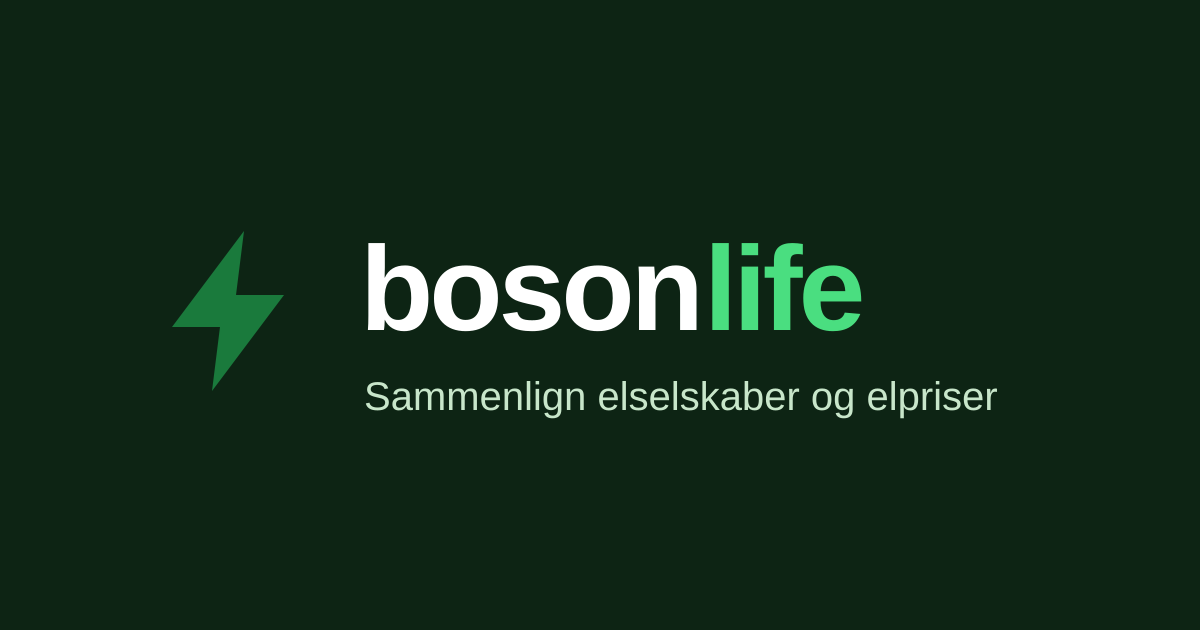
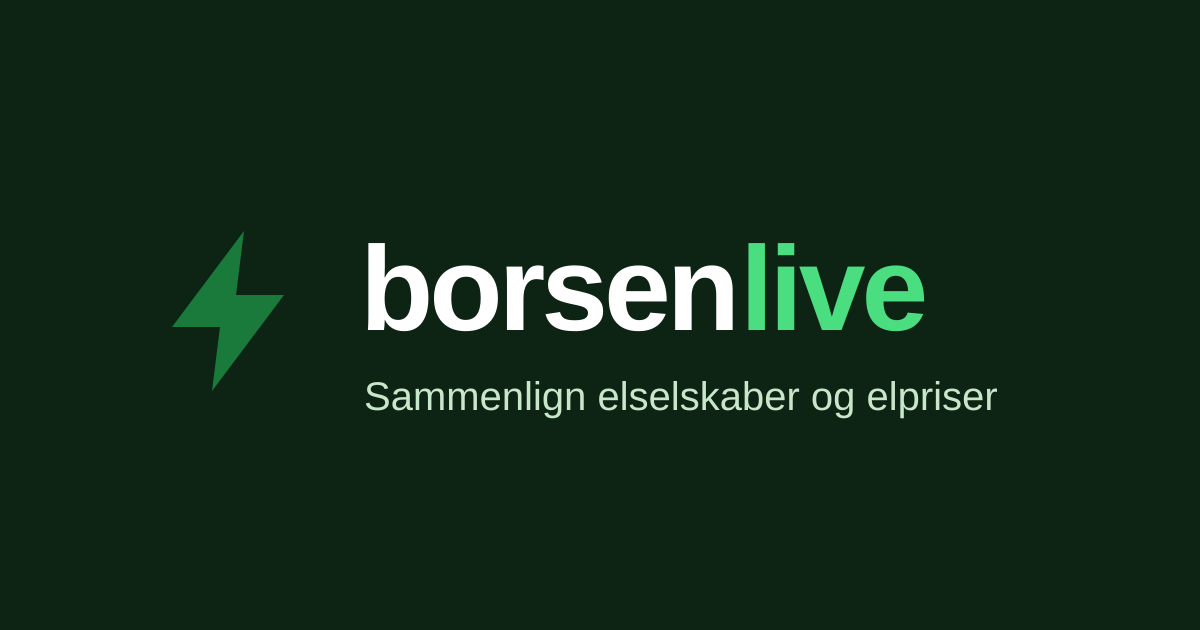
Rename site to Borsenlive (borsenlive.dk)
Claude-Session: https://claude.ai/code/session_01Bfs7oHe3EgBk3y694jMdA9

Changed region(s): [[0.4008, 0.3921, 0.7708, 0.5429]]

diff --git a/src/components/Footer.tsx b/src/components/Footer.tsx
@@ -55,12 +55,12 @@ export async function Footer({
 
   const settings = await getSiteSettings().catch(() => null)
   const logoWhiteUrl = settings?.logoWhiteUrl ?? '/logo-white.webp'
-  const tagline      = taglineProp      ?? settings?.footerTagline      ?? 'Bosonlife.dk sammenligner elselskaber og elpriser, så du nemt kan finde den bedste elaftale.'
+  const tagline      = taglineProp      ?? settings?.footerTagline      ?? 'Borsenlive.dk sammenligner elselskaber og elpriser, så du nemt kan finde den bedste elaftale.'
   const columns      = columnsProp      ?? (settings?.footerColumns?.length ? settings.footerColumns : DEFAULT_COLUMNS)
   const longDisclaimer = longDisclaimerProp ?? settings?.footerLongDisclaimer ?? null
   const mediaLogos   = mediaLogosProp   ?? settings?.footerMediaLogos   ?? []
   const trustIcons   = trustIconsProp   ?? settings?.footerTrustIcons   ?? []
-  const note         = noteProp         ?? settings?.footerNote         ?? `© ${year} Bosonlife.dk`
+  const note         = noteProp         ?? settings?.footerNote         ?? `© ${year} Borsenlive.dk`
   const disclaimer   = disclaimerProp   ?? settings?.footerDisclaimer   ?? 'Siden indeholder affiliate-links'
   const bottomNav    = bottomNavProp    ?? settings?.footerBottomNav    ?? []
   const socialLinks  = socialLinksProp  ?? settings?.socialLinks        ?? null
@@ -82,7 +82,7 @@ export async function Footer({
             <div style={{ marginBottom: '14px' }}>
               <Image
                 src={logoWhiteUrl}
-                alt="Bosonlife"
+                alt="Borsenlive"
                 height={32}
                 width={180}
                 style={{ height: '32px', width: 'auto', display: 'block' }}

diff --git a/src/app/page.tsx b/src/app/page.tsx
@@ -48,7 +48,7 @@ export default async function HomePage() {
     : [
         { _key: 'trust-1', icon: 'bolt',         title: 'Opdaterede priser',      body: 'Vi holder øje med elselskabernes tillæg, abonnementer og introtilbud, så sammenligningen altid er aktuel.' },
         { _key: 'trust-2', icon: 'scale',        title: 'Uafhængig sammenligning', body: 'Vi sammenligner elaftaler på de samme parametre, så du kan se forskellen på spotpris, fastpris og binding.' },
-        { _key: 'trust-3', icon: 'wallet-money', title: 'Gratis at bruge',         body: 'Det koster ingenting at bruge Bosonlife. Vi kan modtage provision, når du skifter via vores links.' },
+        { _key: 'trust-3', icon: 'wallet-money', title: 'Gratis at bruge',         body: 'Det koster ingenting at bruge Borsenlive. Vi kan modtage provision, når du skifter via vores links.' },
       ]
 
   const faqs = (hp?.body ?? [])

diff --git a/src/app/layout.tsx b/src/app/layout.tsx
@@ -18,7 +18,7 @@ const figtree = Figtree({
 export const metadata: Metadata = {
   metadataBase: new URL(BASE),
   title: {
-    default: 'Bosonlife — Sammenlign elselskaber og elpriser',
+    default: 'Borsenlive — Sammenlign elselskaber og elpriser',
     template: '%s',
   },
   description: 'Find det billigste elselskab. Vi sammenligner spotpriser, fastpriser og abonnementer hos de danske elselskaber.',
@@ -29,7 +29,7 @@ export const metadata: Metadata = {
     locale: 'da_DK',
     type: 'website',
     url: BASE + '/',
-    title: 'Bosonlife — Sammenlign elselskaber og elpriser',
+    title: 'Borsenlive — Sammenlign elselskaber og elpriser',
     description: 'Find det billigste elselskab og den bedste elaftale.',
     images: [{ url: `${BASE}/og.png`, width: 1200, height: 630, alt: SITE_DOMAIN }],
   },

diff --git a/src/sanity/schemas/siteSettings.ts b/src/sanity/schemas/siteSettings.ts
@@ -229,7 +229,7 @@ export const siteSettingsType = defineType({
       type: 'text',
       rows: 2,
       group: 'footer',
-      initialValue: 'Bosonlife.dk sammenligner elselskaber og elpriser, så du nemt kan finde den bedste elaftale.',
+      initialValue: 'Borsenlive.dk sammenligner elselskaber og elpriser, så du nemt kan finde den bedste elaftale.',
     }),
     defineField({
       name: 'socialLinks',
@@ -359,7 +359,7 @@ export const siteSettingsType = defineType({
       title: 'Footer bottom bar — left text',
       type: 'string',
       group: 'footer',
-      initialValue: '© Bosonlife.dk',
+      initialValue: '© Borsenlive.dk',
     }),
     defineField({
       name: 'footerDisclaimer',

diff --git a/src/app/nyheder/page.tsx b/src/app/nyheder/page.tsx
@@ -10,12 +10,12 @@ export const revalidate = 3600
 
 
 export const metadata: Metadata = {
-  title: 'Nyheder — Bosonlife',
-  description: 'Nyheder og artikler om elpriser, elselskaber og energi fra Bosonlife.',
+  title: 'Nyheder — Borsenlive',
+  description: 'Nyheder og artikler om elpriser, elselskaber og energi fra Borsenlive.',
   alternates: { canonical: `${BASE}/nyheder/` },
   openGraph: {
-    title: 'Nyheder — Bosonlife',
-    description: 'Nyheder og artikler om elpriser, elselskaber og energi fra Bosonlife.',
+    title: 'Nyheder — Borsenlive',
+    description: 'Nyheder og artikler om elpriser, elselskaber og energi fra Borsenlive.',
     url: `${BASE}/nyheder/`,
   },
 }

diff --git a/src/lib/site.ts b/src/lib/site.ts
@@ -1,7 +1,7 @@
 // Central site constants — change here, not in individual routes.
-export const BASE = (process.env.NEXT_PUBLIC_SITE_URL || 'https://bosonlife.dk').replace(/\/$/, '')
-export const SITE_NAME = 'Bosonlife'
-export const SITE_DOMAIN = 'Bosonlife.dk'
+export const BASE = (process.env.NEXT_PUBLIC_SITE_URL || 'https://borsenlive.dk').replace(/\/$/, '')
+export const SITE_NAME = 'Borsenlive'
+export const SITE_DOMAIN = 'Borsenlive.dk'
 /** BCP-47 language tag used in <html lang> and JSON-LD inLanguage. */
 export const LANG = 'da-DK'
 /** Locale used for date formatting. */

diff --git a/src/app/nyheder/[category]/page.tsx b/src/app/nyheder/[category]/page.tsx
@@ -22,8 +22,8 @@ export async function generateMetadata({ params }: Props): Promise<Metadata> {
   const categories = await getCategories().catch(() => [])
   const cat = categories.find((c: any) => c.slug.current === category)
   if (!cat) return {}
-  const title = `${cat.name} — Bosonlife`
-  const description = cat.description || `Alle artikler om ${cat.name.toLowerCase()} fra Bosonlife.`
+  const title = `${cat.name} — Borsenlive`
+  const description = cat.description || `Alle artikler om ${cat.name.toLowerCase()} fra Borsenlive.`
   return {
     title,
     description,

diff --git a/sanity.cli.ts b/sanity.cli.ts
@@ -1,7 +1,7 @@
 import { defineCliConfig } from 'sanity/cli'
 
 // Lets the Sanity CLI (e.g. `sanity dataset export`) know which project/dataset
-// to target. Set NEXT_PUBLIC_SANITY_PROJECT_ID in .env.local to the bosonlife
+// to target. Set NEXT_PUBLIC_SANITY_PROJECT_ID in .env.local to the borsenlive
 // Sanity project (deliberately no hardcoded fallback).
 export default defineCliConfig({
   api: {

diff --git a/src/components/Navbar.tsx b/src/components/Navbar.tsx
@@ -74,7 +74,7 @@ export async function Navbar({ navItems, logoHref = '/' }: { navItems?: Resolved
         <Link href={logoHref} className="navbar-logo">
           <Image
             src="/logo.webp"
-            alt="Bosonlife"
+            alt="Borsenlive"
             height={36}
             width={200}
             style={{ height: '36px', width: 'auto', display: 'block' }}

diff --git a/src/components/GoogleAnalytics.tsx b/src/components/GoogleAnalytics.tsx
@@ -1,6 +1,6 @@
 import Script from 'next/script'
 
-// Measurement ID — set NEXT_PUBLIC_GA_ID to bosonlife's GA4 property. Nothing loads without it.
+// Measurement ID — set NEXT_PUBLIC_GA_ID to borsenlive's GA4 property. Nothing loads without it.
 const GA_ID = process.env.NEXT_PUBLIC_GA_ID || ''
 
 /**

diff --git a/src/components/AdminBar.tsx b/src/components/AdminBar.tsx
@@ -105,7 +105,7 @@ export function AdminBar() {
         letterSpacing: '-0.01em',
         whiteSpace: 'nowrap',
       }}>
-        Bosonlife
+        Borsenlive
       </Link>
 
       <div style={{ width: '1px', height: '16px', background: '#1e293b', margin: '0 6px' }} />

diff --git a/sanity.config.ts b/sanity.config.ts
@@ -8,7 +8,7 @@ import { previewAction } from './src/sanity/previewAction'
 
 export default defineConfig({
   name: 'default',
-  title: 'Bosonlife.dk',
+  title: 'Borsenlive.dk',
   basePath: '/studio',
 
   projectId: process.env.NEXT_PUBLIC_SANITY_PROJECT_ID!,
